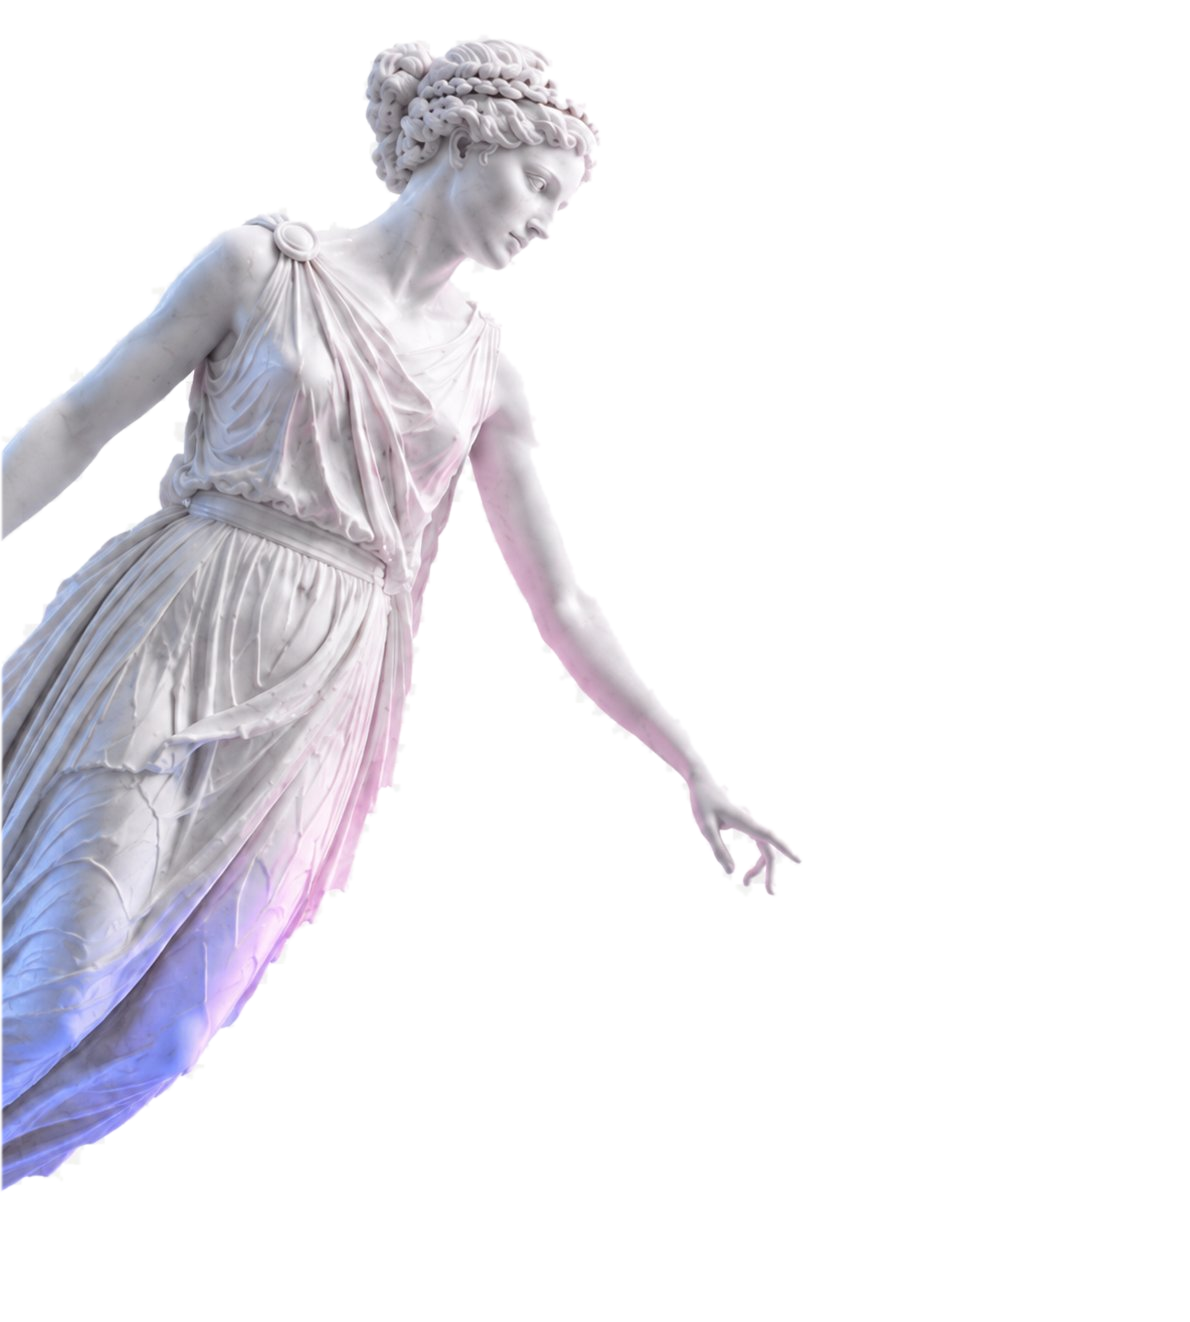
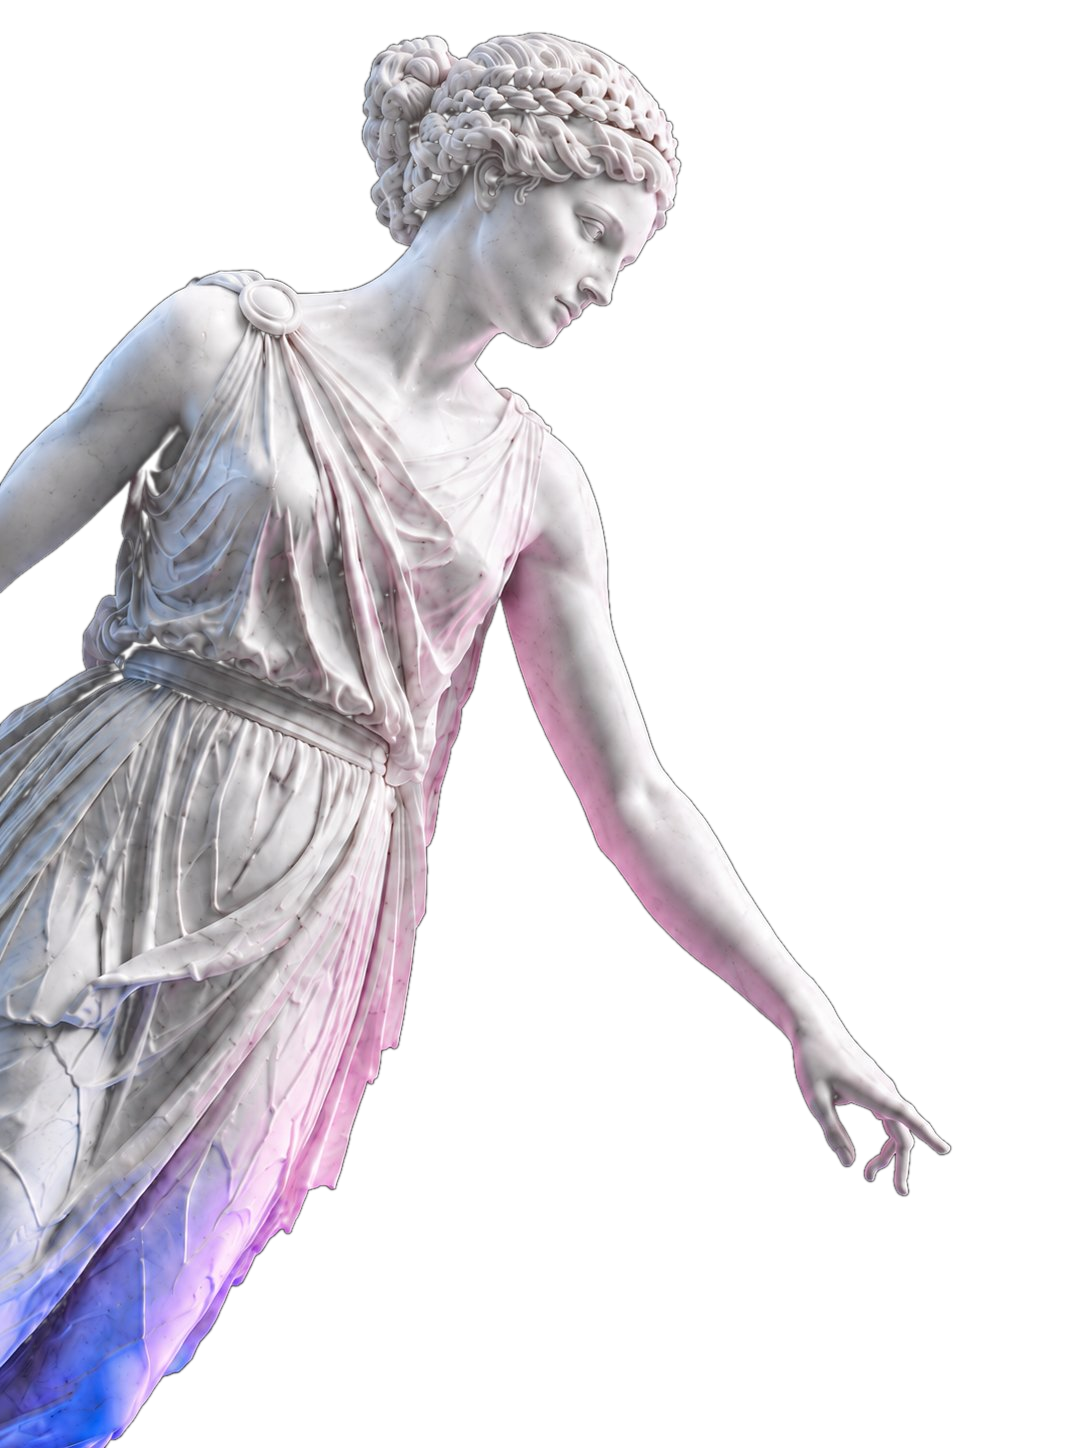
site web

diff --git a/app/globals.css b/app/globals.css
@@ -255,7 +255,7 @@ section {
     box-shadow 0.55s var(--ease);
 }
 .hdr.scrolled .bar {
-  padding: 9px 12px 9px 20px;
+  padding: 9px 32px 9px 20px;
   border-radius: 999px;
   background: linear-gradient(
     180deg,
@@ -1288,13 +1288,11 @@ body:has(.home-with-cinematic-footer) {
   transform-origin: 78% 22%;
 }
 .statue-right {
-  right: -14%; bottom: -6%;
-  width: 50vw; max-width: 720px; min-width: 380px;
-  transform-origin: 70% 50%;
+  right: -3%; bottom: -8%;
+  width: 44vw; max-width: 620px; min-width: 340px;
+  transform-origin: 50% 50%;
   z-index: 3;
 }
-/* Inclinaison de base de la statue droite (le parallax JS multiplie ensuite) */
-.statue-right img { transform: rotate(8deg); }
 @media (max-width: 900px) {
   .statue-left, .statue-right { width: 42vw; opacity: .5; }
 }
@@ -1521,8 +1519,8 @@ body:has(.home-with-cinematic-footer) {
    creait une bande grise visible. */
 .eng-head {
   position: absolute;
-  left: 8.2%;
-  top: 30%;
+  left: 8.5%;
+  top: 19%;
   max-width: 52%;
   z-index: 3;
 }
@@ -1542,26 +1540,27 @@ body:has(.home-with-cinematic-footer) {
 
 .eng-cards {
   position: absolute;
-  left: 8.19%;
-  top: 47%;
-  width: 67.17%;
+  left: 8.5%;
+  top: 36%;
+  width: 64%;
+  height: 31%;
   display: grid;
   grid-template-columns: repeat(3, 1fr);
-  column-gap: 1.02%;
-  row-gap: 1.6cqw;
+  grid-template-rows: repeat(2, 1fr);
+  column-gap: 2.6%;
+  row-gap: 2%;
   z-index: 3;
 }
 .eng-card {
   padding: 1.6cqw 1.9cqw 1.6cqw 1.7cqw;
   display: flex;
   flex-direction: column;
-  justify-content: flex-start;
+  justify-content: center;
   overflow: hidden;
-  background: rgba(255,255,255,0.55);
-  backdrop-filter: blur(8px);
-  -webkit-backdrop-filter: blur(8px);
-  border: 1px solid rgba(255,255,255,0.6);
-  border-radius: 1cqw;
+  /* PAS de fond ni bordure : les rectangles/widgets sont DEJA dessines dans
+     l'image eng-fond.png. On place uniquement le contenu (icone + texte) dessus. */
+  background: transparent;
+  border: none;
 }
 .eng-card .icon-box {
   width: 2.3cqw; height: 2.3cqw; min-width: 32px; min-height: 32px;

diff --git a/components/MethodSteps.tsx b/components/MethodSteps.tsx
@@ -73,8 +73,8 @@ export default function MethodSteps() {
 
     const LEFT_FROM = 4,
       LEFT_TO = -16;
-    const RIGHT_FROM = -19,
-      RIGHT_TO = 2;
+    const RIGHT_FROM = -30,
+      RIGHT_TO = 5;
     const clamp = (v: number, a: number, b: number) =>
       Math.max(a, Math.min(b, v));
     const lerp = (a: number, b: number, t: number) => a + (b - a) * t;
